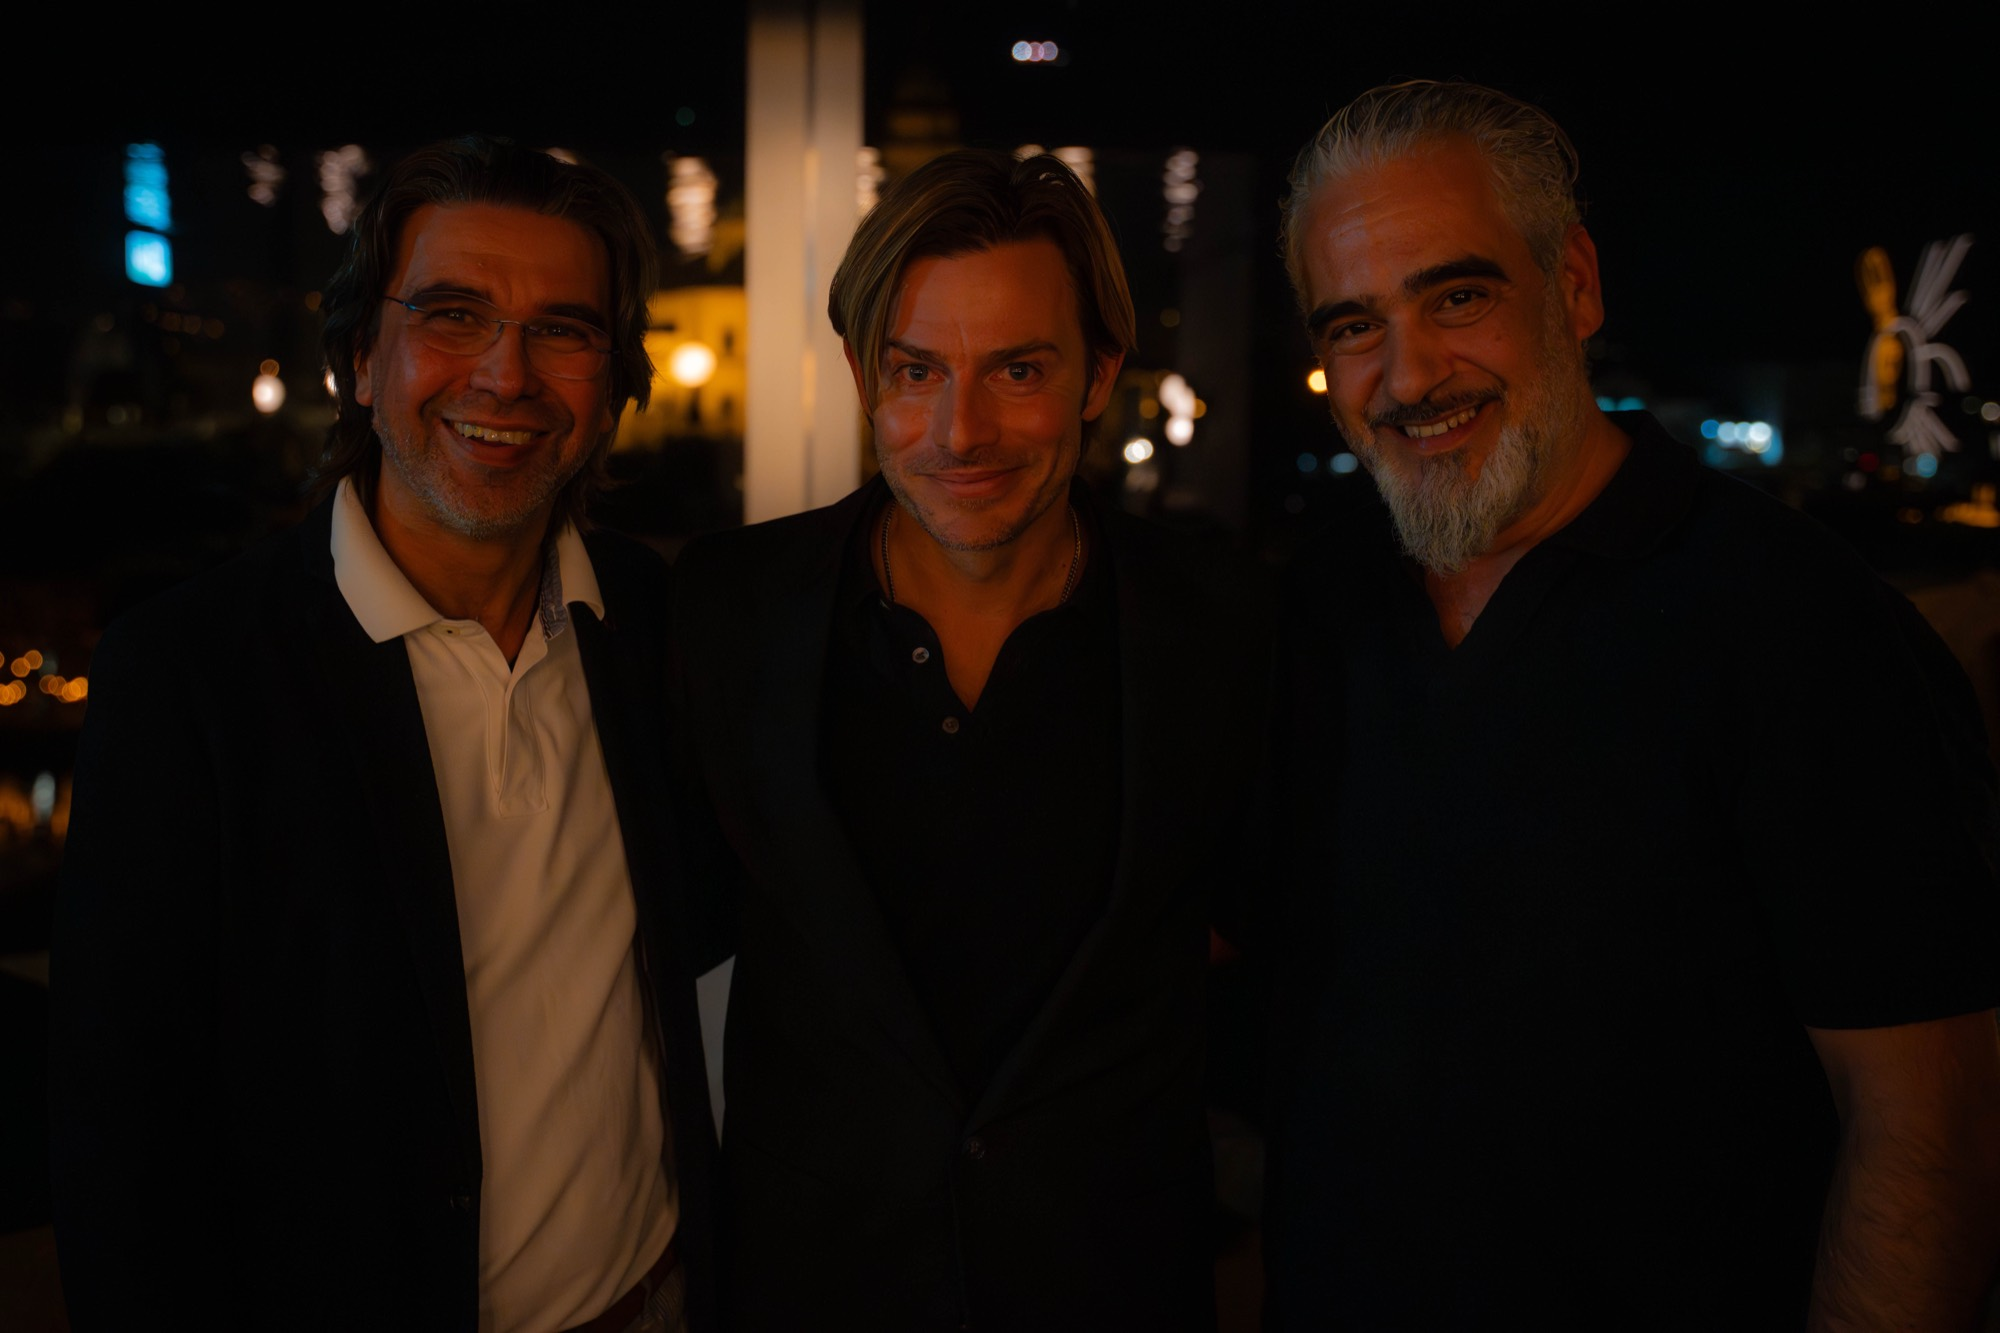
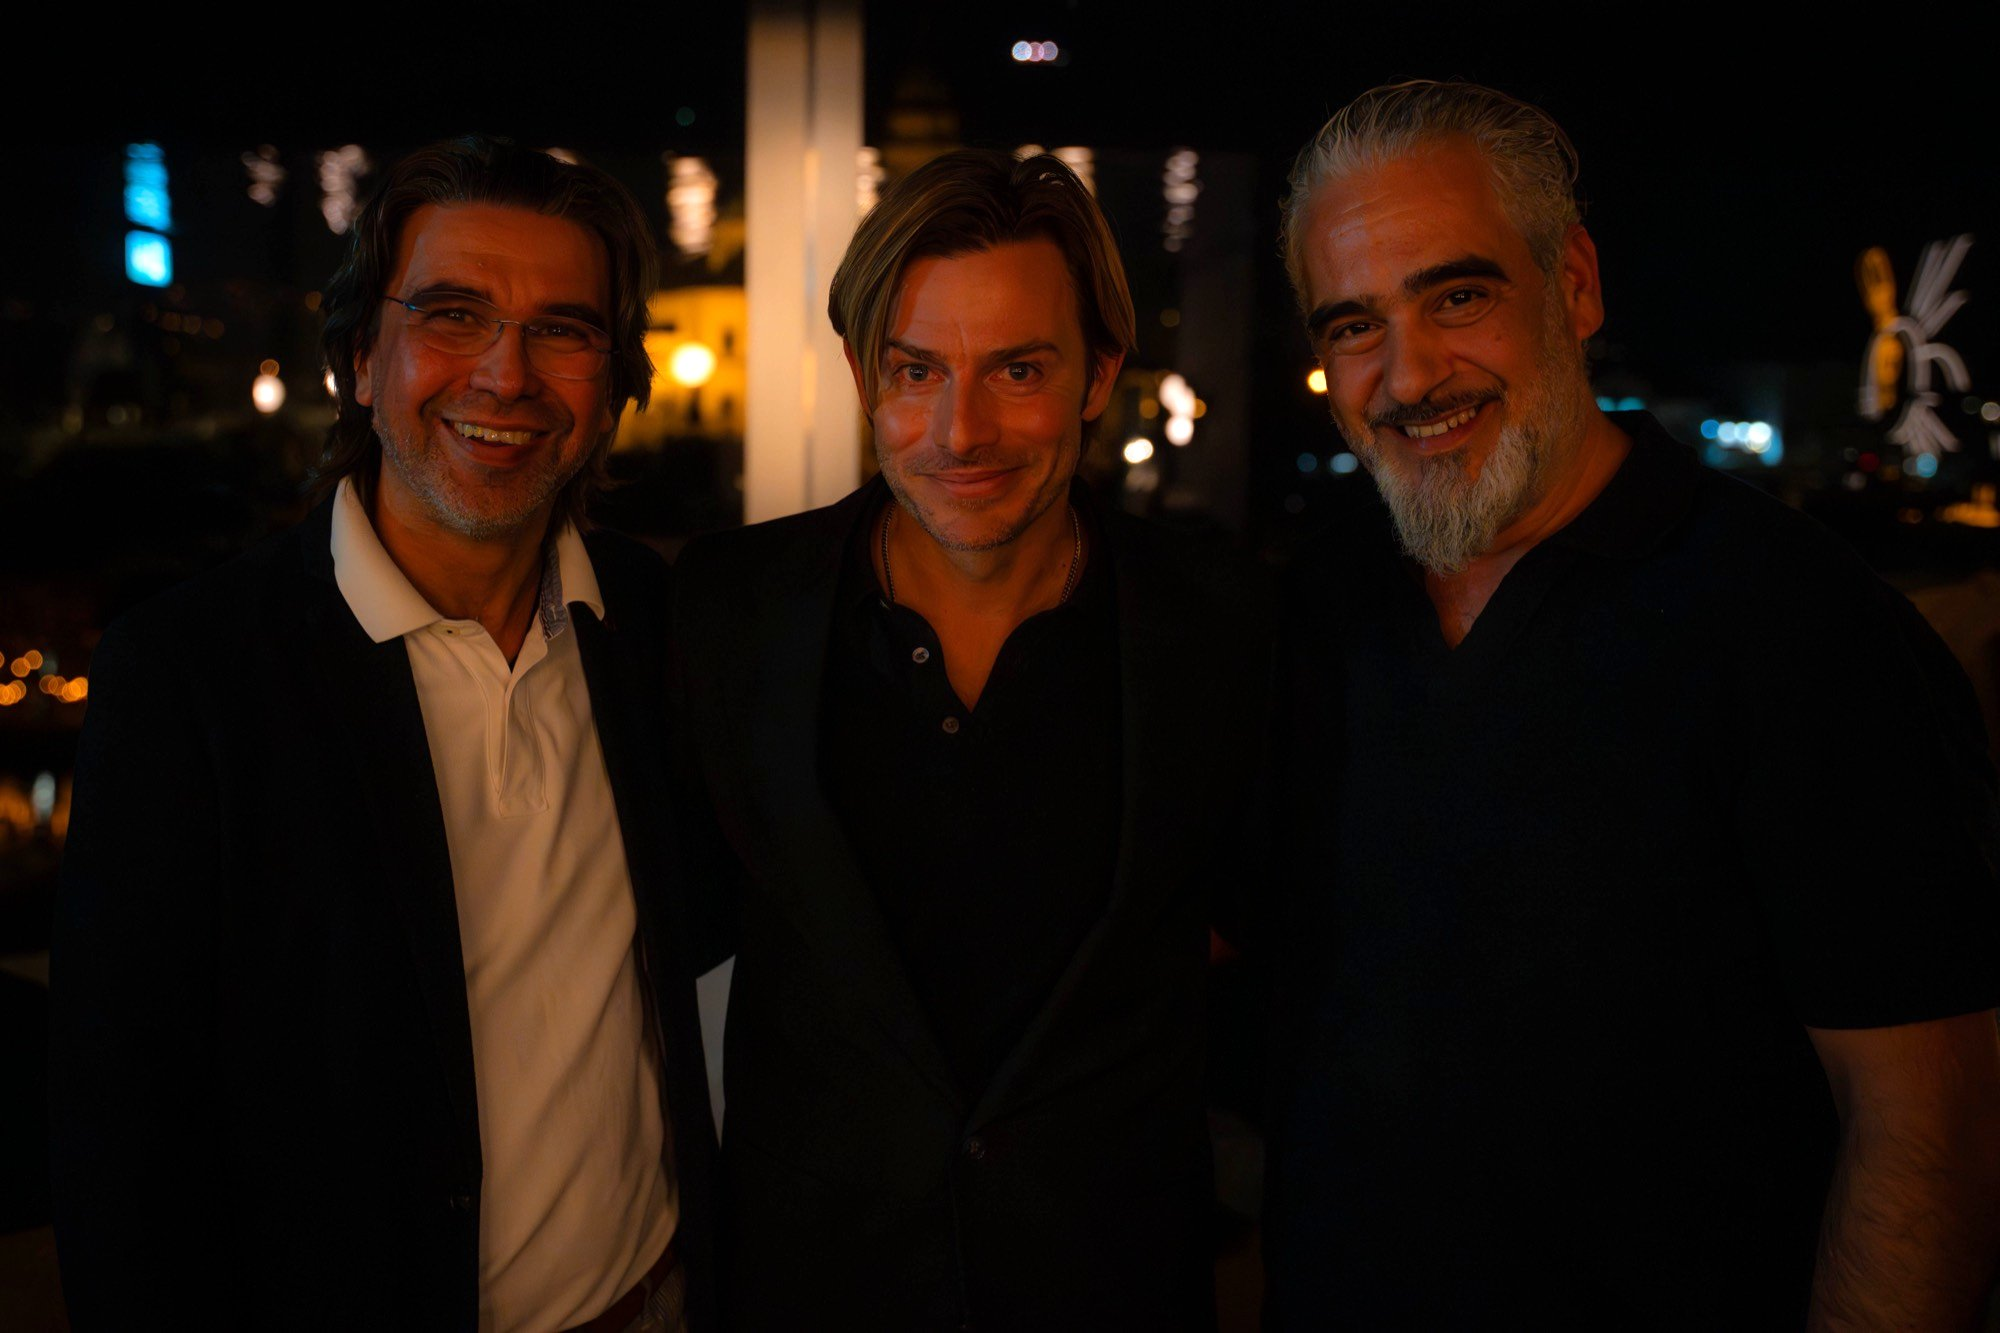
Content updates: team, services, history, partners, hero slogan
- Impressum: Vertretungsberechtigte Person → Thomas Batsilas
- Team: Mario 4. Lehrjahr
- Startseite: Hero-Slogan „Aus Tradition innovativ.“
- Über uns/Geschichte: 2013 Weiterführung durch Martin Svarovsky und Thomas Batsilas
- Leistungen CAD/CAM: e.max ergänzt
- Leistungen Vollkeramik: Kronen/Brücken, Implantatkronen, Veneers, Inlay/Overlay, Maryland-/Klebebrücken, Wurzelstiftkappen
- Leistungen Digitaler Workflow: Condent-Text + Link zu condent.ch
- Leistungen KFO: „Silensor“ korrigiert, Titel „Kieferorthopädie & Schienentherapie“, Schienen-Liste ergänzt
- Leistungen Beratung: Farbbestimmung mit Fotodokumentation + individuelle Anprobe im Labor
- Auftrag: Condent-Portal mit direktem Login-Link ergänzt
- Partner: Neodent, Camlog, Zimmer Biomet ergänzt (URL, Logo folgt)
- News Kochkurs: Datum 29.11.2025, Titelbild mit Thomas
- News Fortbildung: „Dr. Marco Schwan“, Titelbild aufgehellt

diff --git a/src/data/services.ts b/src/data/services.ts
@@ -9,6 +9,7 @@ export interface Service {
   body: string[]; // Fliesstext der Leistungssektion (Absätze)
   points: string[]; // Systeme / Materialien / Leistungen
   note?: string; // optionaler Hinweis nach der Liste
+  link?: { href: string; label: string }; // optionaler externer Link nach der Liste
   image?: string; // Hintergrundbild der Startseiten-Card
   homepage?: boolean; // false = nur auf der Leistungsseite anzeigen
 }
@@ -25,7 +26,7 @@ export const services: Service[] = [
     image: "/img/labor/komprimiert/Keyvisual_Labor_Startseite_1.jpg",
     body: [
       "CAD/CAM ist ein zentraler Bestandteil unserer digitalen Zahntechnik. Zahntechnische Restaurationen werden digital konstruiert und mit modernen Fertigungsverfahren präzise umgesetzt.",
-      "Je nach Indikation verarbeiten wir unter anderem Zirkon, Chrom-Kobalt, Titan, PMMA, Nylon/Eldy, Hybridkeramik sowie Peek.",
+      "Je nach Indikation verarbeiten wir unter anderem Zirkon, Chrom-Kobalt, Titan, PMMA, Nylon/Eldy, Hybridkeramik, e.max sowie Peek.",
       "Dabei arbeiten wir mit mehreren Systemen, damit wir flexibel auf unterschiedliche Anforderungen und bestehende Praxis-Workflows reagieren können.",
     ],
     points: [
@@ -78,6 +79,12 @@ export const services: Service[] = [
       "Wir fertigen vollkeramische Lösungen mit modernen Materialien und kombinieren digitale Präzision mit zahntechnischem Feingefühl.",
     ],
     points: [
+      "Kronen und Brücken – geschichtet und monolithisch",
+      "Implantatkronen und -brücken",
+      "Veneers",
+      "Inlay/Overlay",
+      "Maryland- und Klebebrücken",
+      "Wurzelstiftkappen und Stiftaufbauten",
       "IPS e.max von Ivoclar",
       "GC-Keramiken",
       "Zirkonoxid",
@@ -122,11 +129,12 @@ export const services: Service[] = [
     subheadline: "Vom Intraoralscan direkt ins Dentallabor",
     image: "/img/labor/komprimiert/digitaler_workflow_1.1.2.jpg",
     body: [
-      "Digitale Prozesse ermöglichen eine schnelle und präzise Zusammenarbeit zwischen Zahnarztpraxis und Dentallabor.",
-      "Sie können uns digitale Patientendaten und Intraoralscans direkt übermitteln. Wir übernehmen die weitere Datenverarbeitung, Konstruktion und zahntechnische Umsetzung.",
-      "Damit lassen sich viele Arbeitsschritte effizient digital abbilden und Informationen strukturiert zwischen Praxis und Labor austauschen.",
+      "Beginnend mit der Auftragserfassung über Condent erhalten wir Ihren digitalen Auftrag inklusive aller Daten, Fotos und Scans.",
+      "Das bringt Vorteile für Praxis und Labor: eine chronologische, digitale Patientendokumentation, Chatten in Echtzeit und eine deutlich einfachere Kommunikation zwischen Zahnarztpraxis und Labor.",
+      "Alles digital, alles in der Cloud – Swiss Made.",
     ],
     points: [
+      "Condent",
       "Sirona Connect",
       "Verarbeitung von Intraoralscans",
       "digitale Patientendokumentation",
@@ -135,22 +143,31 @@ export const services: Service[] = [
       "Datencontainer",
       "3D-Druck",
     ],
+    link: { href: "https://www.condent.ch/de/", label: "Zur Condent Dentallabor-Software" },
   },
   {
     slug: "kieferorthopaedie",
     icon: "tooth",
-    title: "Kieferorthopädie",
-    short: "Kieferorthopädische Apparaturen und individuelle Schienen.",
-    h2: "Kieferorthopädie",
+    title: "Kieferorthopädie & Schienentherapie",
+    short: "Kieferorthopädische Apparaturen, individuelle Schienen und umfassende Schienentherapie.",
+    h2: "Kieferorthopädie & Schienentherapie",
+    subheadline: "Apparaturen, Zahnspangen und individuelle Schienen",
     homepage: false,
     body: [],
     points: [
-      "Individuelle Protrusionsschienen / Silenso",
-      "Schienentherapie",
+      "Individuelle Protrusionsschienen / Silensor",
       "GNE analog und digital",
       "Herausnehmbare Zahnspangen",
       "Retainer digital und analog",
       "Herbstscharnier",
+      "Schienentherapie",
+      "Michiganschienen",
+      "Knirsch- und Aufbissschienen",
+      "Retentionsschienen",
+      "Bleichschienen",
+      "NTI-Schienen",
+      "Sportschutzschienen",
+      "Bohrschablonen",
     ],
   },
   {
@@ -168,8 +185,9 @@ export const services: Service[] = [
     ],
     points: [
       "persönliche Planbesprechungen",
-      "Farbbestimmung im Labor",
+      "Farbbestimmung im Labor mit professioneller Fotodokumentation",
       "Farbbestimmung in der Zahnarztpraxis",
+      "individuelle Anprobe und Anpassung im Labor",
       "Falldokumentationen",
       "detaillierte Kostenberechnungen",
       "Variantenplanung",

diff --git a/src/site.ts b/src/site.ts
@@ -55,4 +55,7 @@ export const partners = [
   { name: "Denseo",          file: "/partner/denseo.avif",         url: "https://www.denseo.de" },
   { name: "Astra",           file: "/partner/astratech.jpg",       url: "https://www.dentsplysirona.com" },
   { name: "Ankylos",         file: "/partner/Ankylos_logo.webp",   url: "https://www.dentsplysirona.com" },
+  { name: "Neodent",         file: "",                             url: "https://www.neodent.com" },
+  { name: "Camlog",          file: "",                             url: "https://www.camlog.com" },
+  { name: "Zimmer Biomet",   file: "",                             url: "https://www.zimvie.com" },
 ] as const;

diff --git a/src/content/news/fortbildung-marco-schwan.md b/src/content/news/fortbildung-marco-schwan.md
@@ -1,13 +1,13 @@
 ---
-title: "Fortbildung mit Marco Schwan zur Implantatprothetik"
+title: "Fortbildung mit Dr. Marco Schwan zur Implantatprothetik"
 date: 2025-11-06
 category: "Firmenanlass"
-excerpt: "Am 6. November 2025 besuchte unser Team eine Fortbildung von Marco Schwan – mit zwei Vorträgen zum Langzeiterfolg und zu digitalen Workflows in der Implantologie und einem gemütlichen Apéro zum Ausklang."
+excerpt: "Am 6. November 2025 besuchte unser Team eine Fortbildung von Dr. Marco Schwan – mit zwei Vorträgen zum Langzeiterfolg und zu digitalen Workflows in der Implantologie und einem gemütlichen Apéro zum Ausklang."
 cover: "/img/news/fortbildung-marco-schwan/cover.jpg"
-coverAlt: "Team der Degoumois Dental AG bei der Fortbildung mit Marco Schwan"
+coverAlt: "Team der Degoumois Dental AG bei der Fortbildung mit Dr. Marco Schwan"
 ---
 
-Am **6. November 2025** durften wir an einer spannenden Fortbildung von **Marco Schwan**
+Am **6. November 2025** durften wir an einer spannenden Fortbildung von **Dr. Marco Schwan**
 teilnehmen – ein lehrreicher Abend rund um die Implantatprothetik, der unser Team fachlich
 weitergebracht und zugleich für viele gute Gespräche gesorgt hat.
 

diff --git a/src/content/news/team-kochkurs.md b/src/content/news/team-kochkurs.md
@@ -1,10 +1,10 @@
 ---
 title: "Gemeinsam am Herd – Unser Team-Kochkurs"
-date: 2025-01-17
+date: 2025-11-29
 category: "Firmenanlass"
 excerpt: "Schneiden, braten, anrichten – unser Team hat gemeinsam den Kochlöffel geschwungen und einen unvergesslichen Abend am offenen Feuer verbracht."
-cover: "/img/news/kochkurs/kochkurs-01.jpeg"
-coverAlt: "Das Degoumois-Team beim gemeinsamen Kochkurs"
+cover: "/img/news/kochkurs/thomas_kochkurs.jpeg"
+coverAlt: "Thomas Batsilas mit dem Degoumois-Team beim gemeinsamen Kochkurs"
 ---
 
 Als besonderer Firmenanlass haben wir uns in die Küche gewagt: Beim gemeinsamen **Kochkurs** durfte unser Team unter professioneller Anleitung selbst Hand anlegen – vom Kochen am offenen Feuer bis zum stilvollen Anrichten der fertigen Speisen.

diff --git a/src/content/team/13-mario.md b/src/content/team/13-mario.md
@@ -1,6 +1,6 @@
 ---
 name: Mario Li Vecchi
-role: Lernender Zahntechnik GIBZ, 3. Lehrjahr
+role: Lernender Zahntechnik GIBZ, 4. Lehrjahr
 order: 22
 lead: false
 photo: /img/team/Mario.jpg
